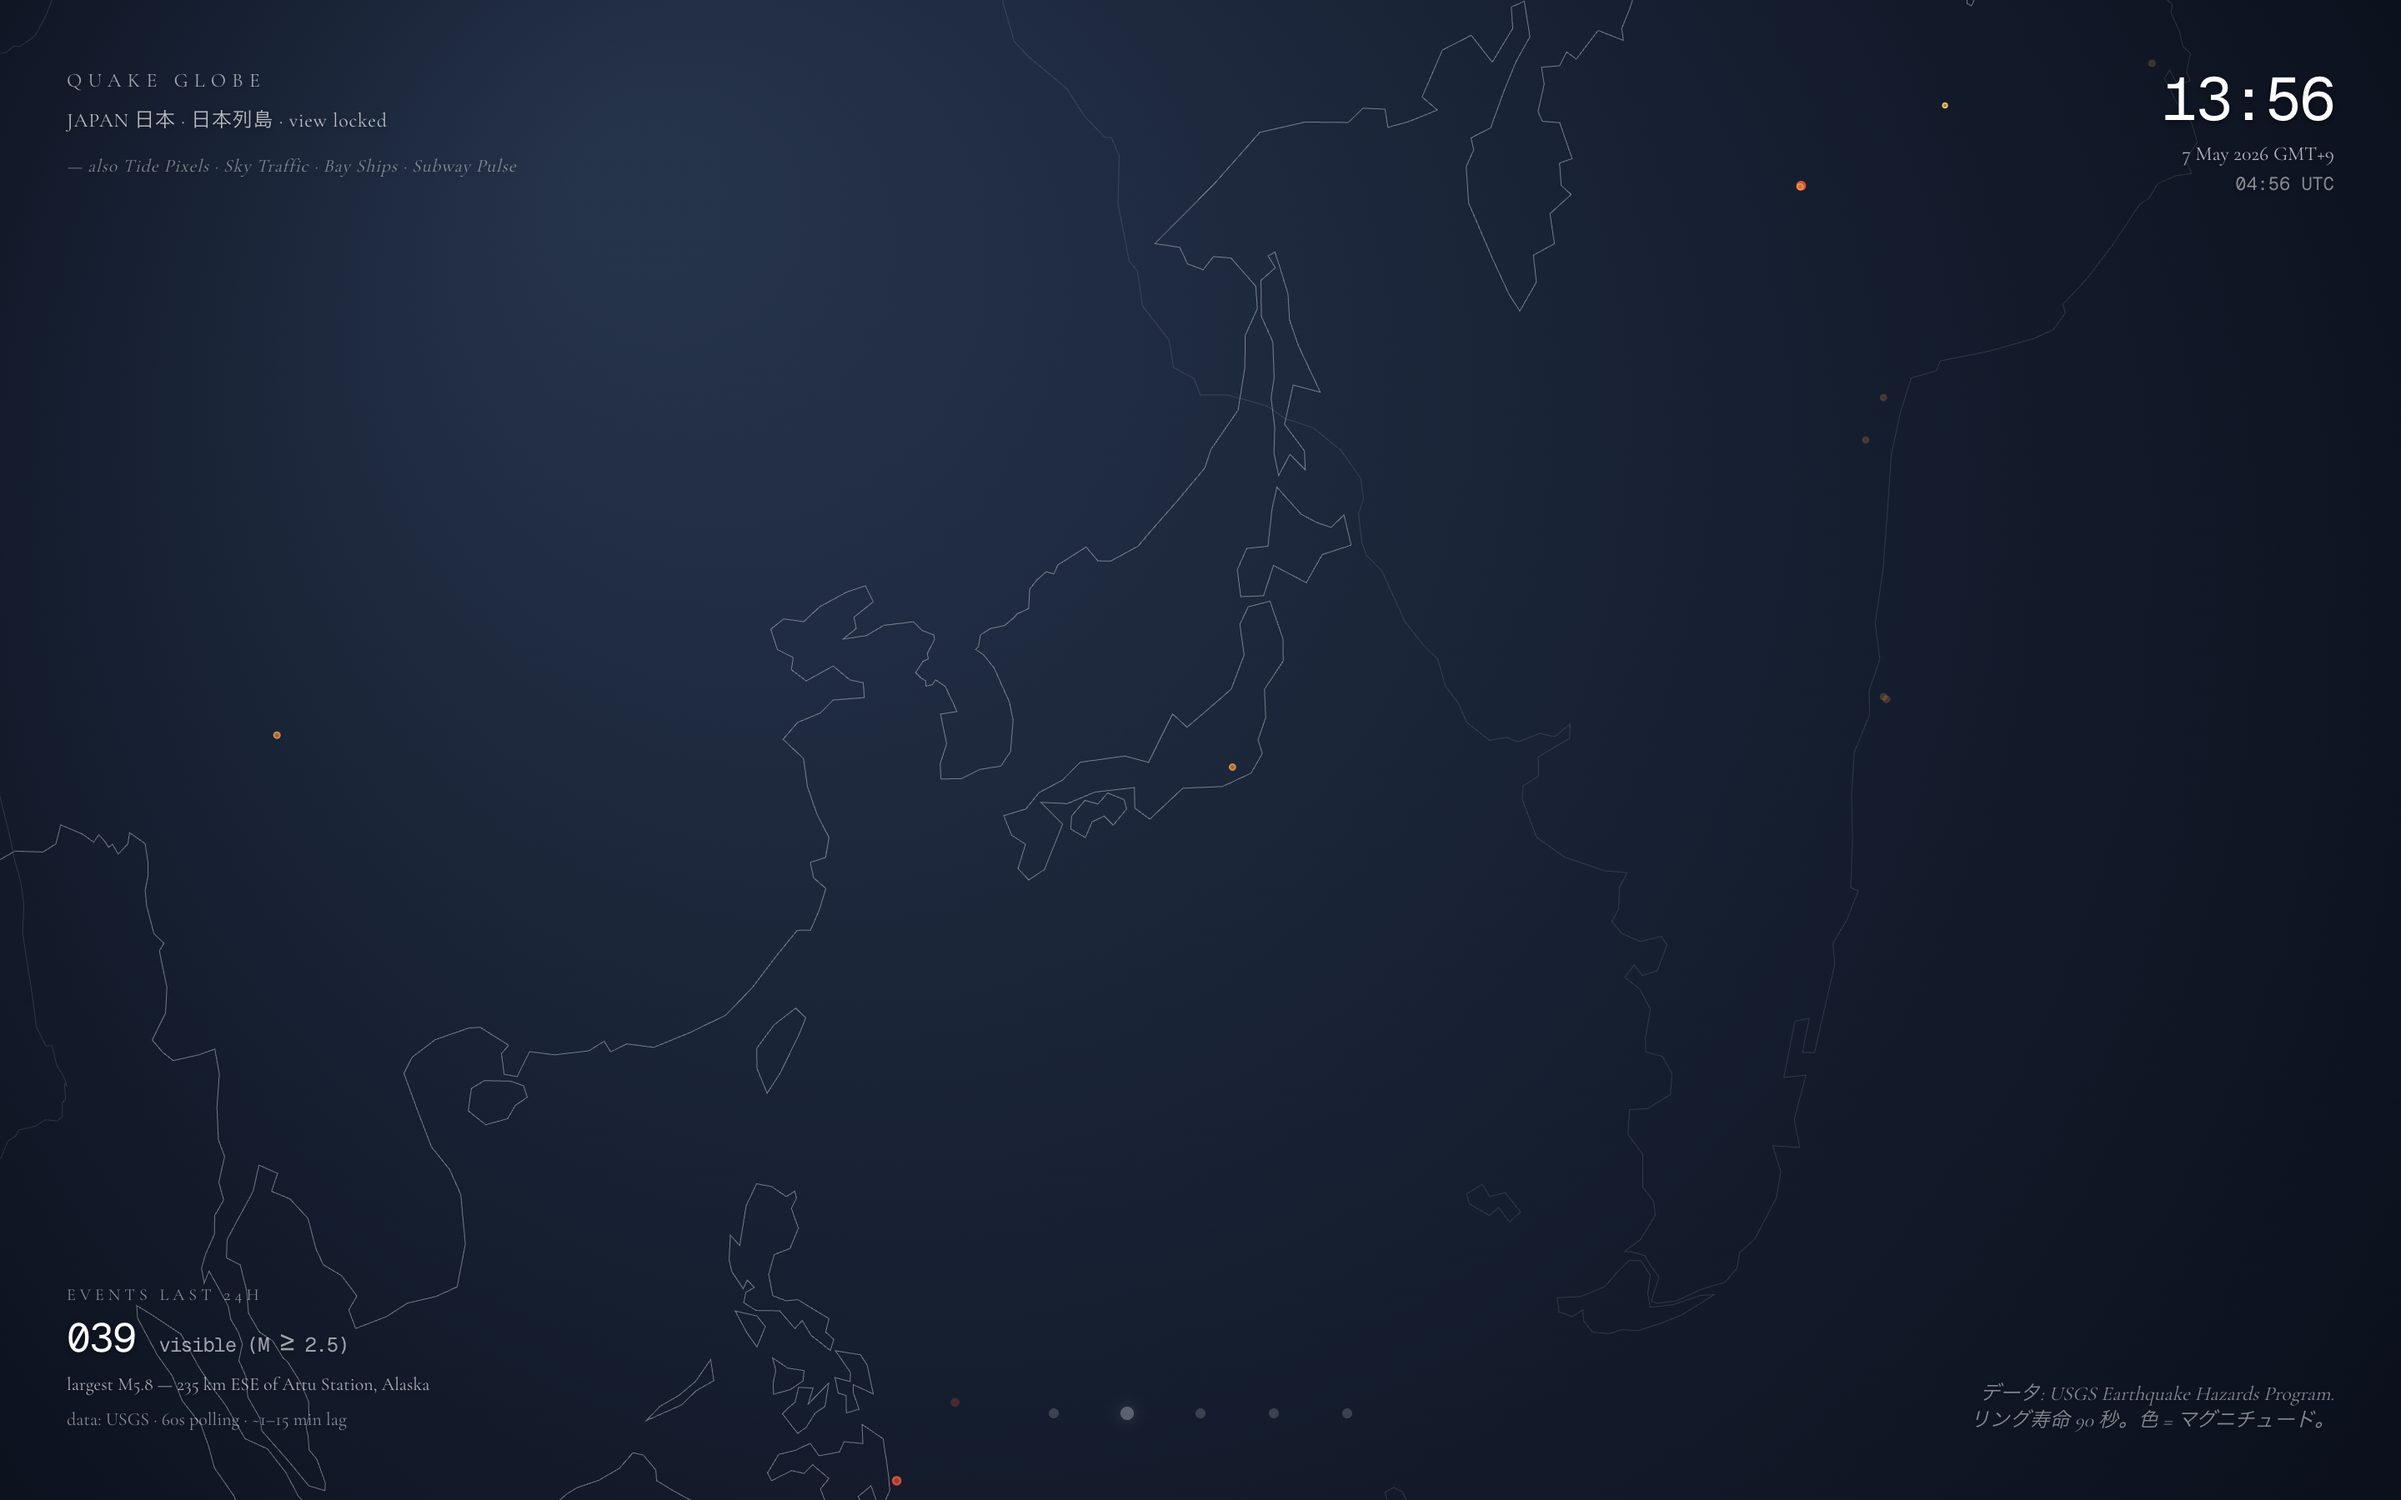
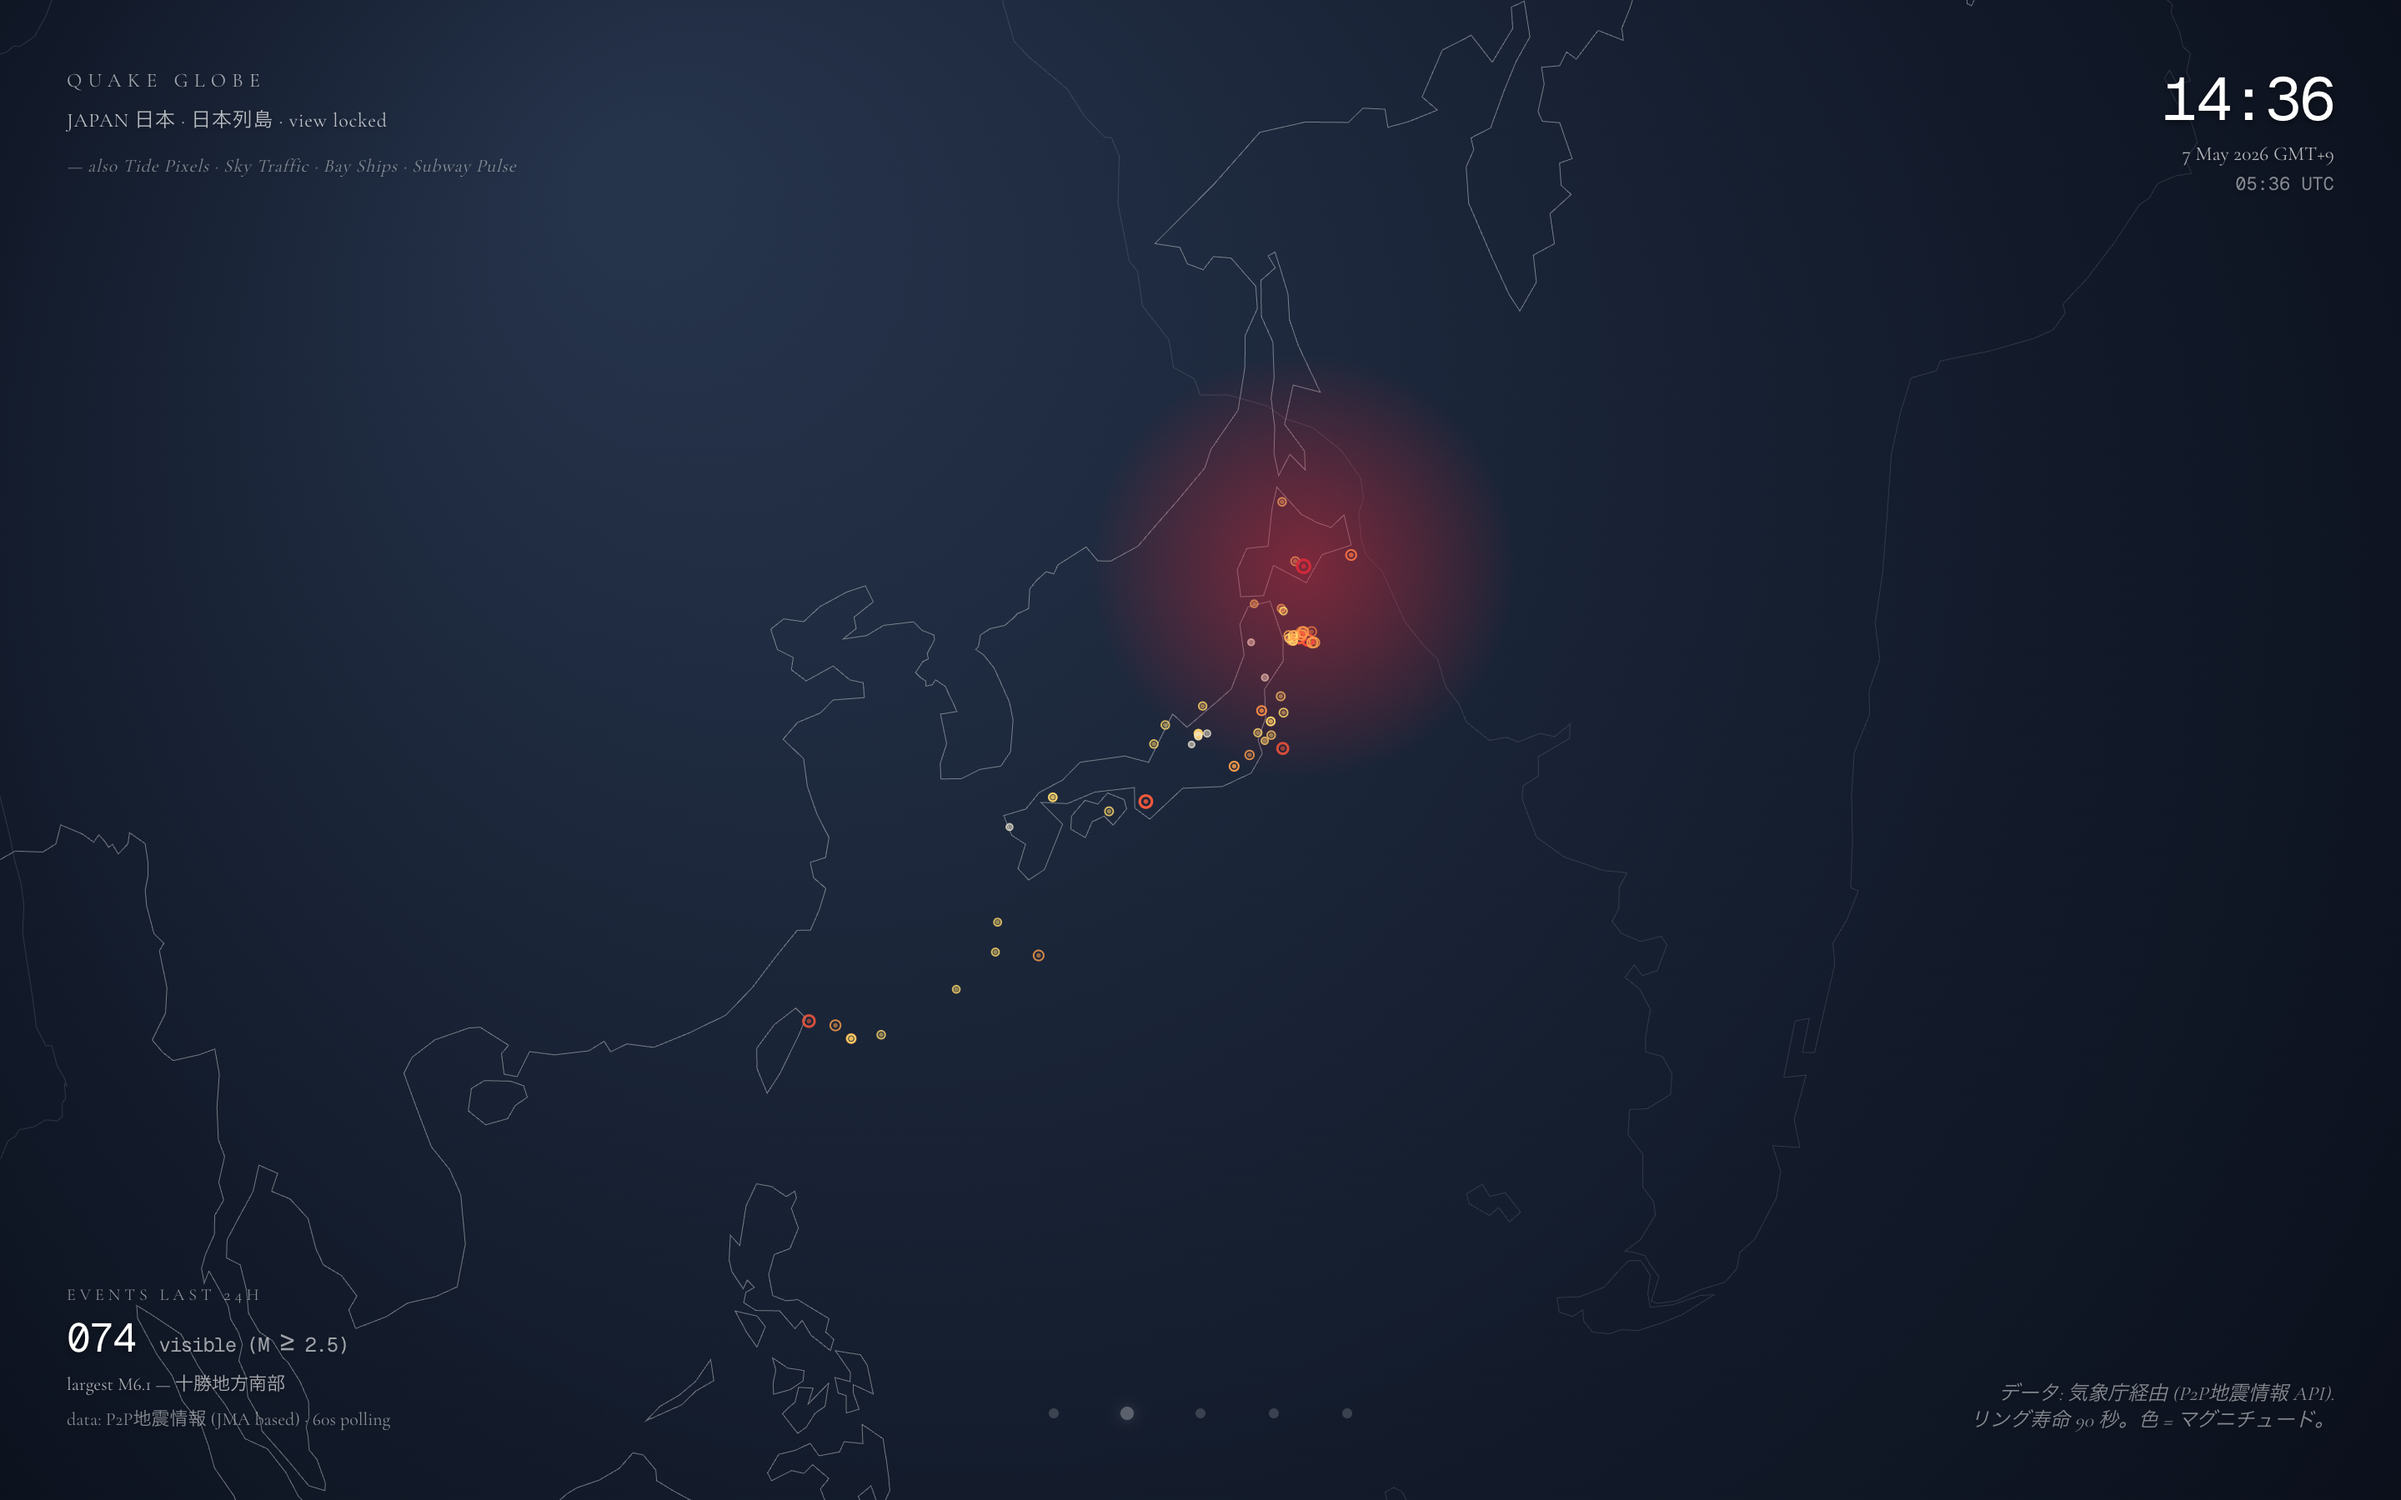
fix(p2p): cap limit=100 (api rejects >100), refresh japan preview
P2P /v2/history returns HTTP 400 for limit>100. The fallback path caught it
and served USGS — but that defeated the whole point of the Japan view.
Switching to limit=100 + dropping the strict 24h filter (the codes=551 feed
fires ~5-15/day, so 24h is too narrow on calm days). Also adds X-P2P-Error
diagnostic header for future debugging.

diff --git a/lib/p2p.ts b/lib/p2p.ts
@@ -1,7 +1,11 @@
 // P2P Quake API parser & fetcher (Japan domestic, JMA-based feed).
 //
 // Upstream (public, no auth):
-//   https://api.p2pquake.net/v2/history?codes=551&limit=300
+//   https://api.p2pquake.net/v2/history?codes=551&limit=100
+//
+// (limit caps at 100 — codes>100 returns HTTP 400. Verified 2026-05-07.
+// codes=551 = "earthquake info" reports issued by JMA. Other codes are
+// peer-status/tsunami/etc and don't carry hypocenter data we need.)
 //
 // Why we use this for the Japan view: USGS's all_day feed catches ~1-3 quakes
 // in/around Japan per day (M ≥ ~2.5). P2P relays JMA's official feed which
@@ -49,7 +53,7 @@ interface P2PEntry {
   earthquake?: P2PEarthquake;
 }
 
-const P2P_URL = "https://api.p2pquake.net/v2/history?codes=551&limit=300";
+const P2P_URL = "https://api.p2pquake.net/v2/history?codes=551&limit=100";
 
 /**
  * Parse "YYYY/MM/DD HH:MM:SS[.fff]" interpreted as JST (UTC+9) into unix ms.
@@ -154,9 +158,19 @@ export function parseP2P(json: unknown): Quake[] {
 }
 
 /**
- * Fetch P2P feed (server-side). Returns Quake[] sorted desc by time_ms,
- * filtered to last 24h to match the USGS all_day window so density looks
- * comparable in the UI.
+ * Fetch P2P feed (server-side). Returns Quake[] sorted desc by time_ms.
+ *
+ * Note on window: the USGS all_day feed uses a 24h window. P2P's `codes=551`
+ * (JMA earthquake reports) only fires when JMA issues a felt-observation
+ * report — typically ~5-15 events/day in Japan, but quiet days produce <5.
+ * To keep the Japan view "alive" instead of mostly empty on calm days, we
+ * return the most recent ~100 events regardless of age (the API caps at
+ * limit=100). This typically spans 7-14 days of seismic activity. The ring
+ * animation only fires for events the client first SEES live (RING_LIFETIME
+ * is 90s after first poll), so older events render as quiet persistent dots.
+ *
+ * If P2P starts returning >100 events/day or we want a strict 24h window, add
+ * a `?recent=true` flag and filter here.
  */
 export async function fetchP2PJapanQuakes(): Promise<Quake[]> {
   const res = await fetch(P2P_URL, {
@@ -173,8 +187,6 @@ export async function fetchP2PJapanQuakes(): Promise<Quake[]> {
   }
   const json = await res.json();
   const all = parseP2P(json);
-  const cutoff = Date.now() - 24 * 60 * 60 * 1000;
-  const last24h = all.filter((q) => q.time_ms >= cutoff);
-  last24h.sort((a, b) => b.time_ms - a.time_ms);
-  return last24h;
+  all.sort((a, b) => b.time_ms - a.time_ms);
+  return all;
 }

diff --git a/app/api/quakes/route.ts b/app/api/quakes/route.ts
@@ -90,6 +90,7 @@ export async function GET(req: NextRequest) {
   }
 
   if (source === "p2p") {
+    let p2pErrMsg = "";
     try {
       const quakes = await fetchP2PJapanQuakes();
       // Empty array from upstream = treat as failure (something's wrong with
@@ -101,7 +102,11 @@ export async function GET(req: NextRequest) {
       }
       cache.p2p = { ts: now, quakes };
       return jsonResponse(quakes, { "X-Quake-Source": "p2p" });
-    } catch {
+    } catch (err) {
+      const e = err as Error & { cause?: { code?: string } };
+      p2pErrMsg = `${e.name}: ${e.message}${
+        e.cause?.code ? ` (${e.cause.code})` : ""
+      }`;
       // Fall back to USGS — never make the user see a broken UI.
       try {
         let usgsQuakes: Quake[];
@@ -114,6 +119,7 @@ export async function GET(req: NextRequest) {
         return jsonResponse(usgsQuakes, {
           "X-Quake-Source": "usgs",
           "X-Quake-Fallback": "p2p-failed-using-usgs",
+          "X-P2P-Error": p2pErrMsg.replace(/[^\x20-\x7e]/g, "?").slice(0, 200),
         });
       } catch (e) {
         // Both upstreams down — return stale P2P or USGS if any, else 502.
